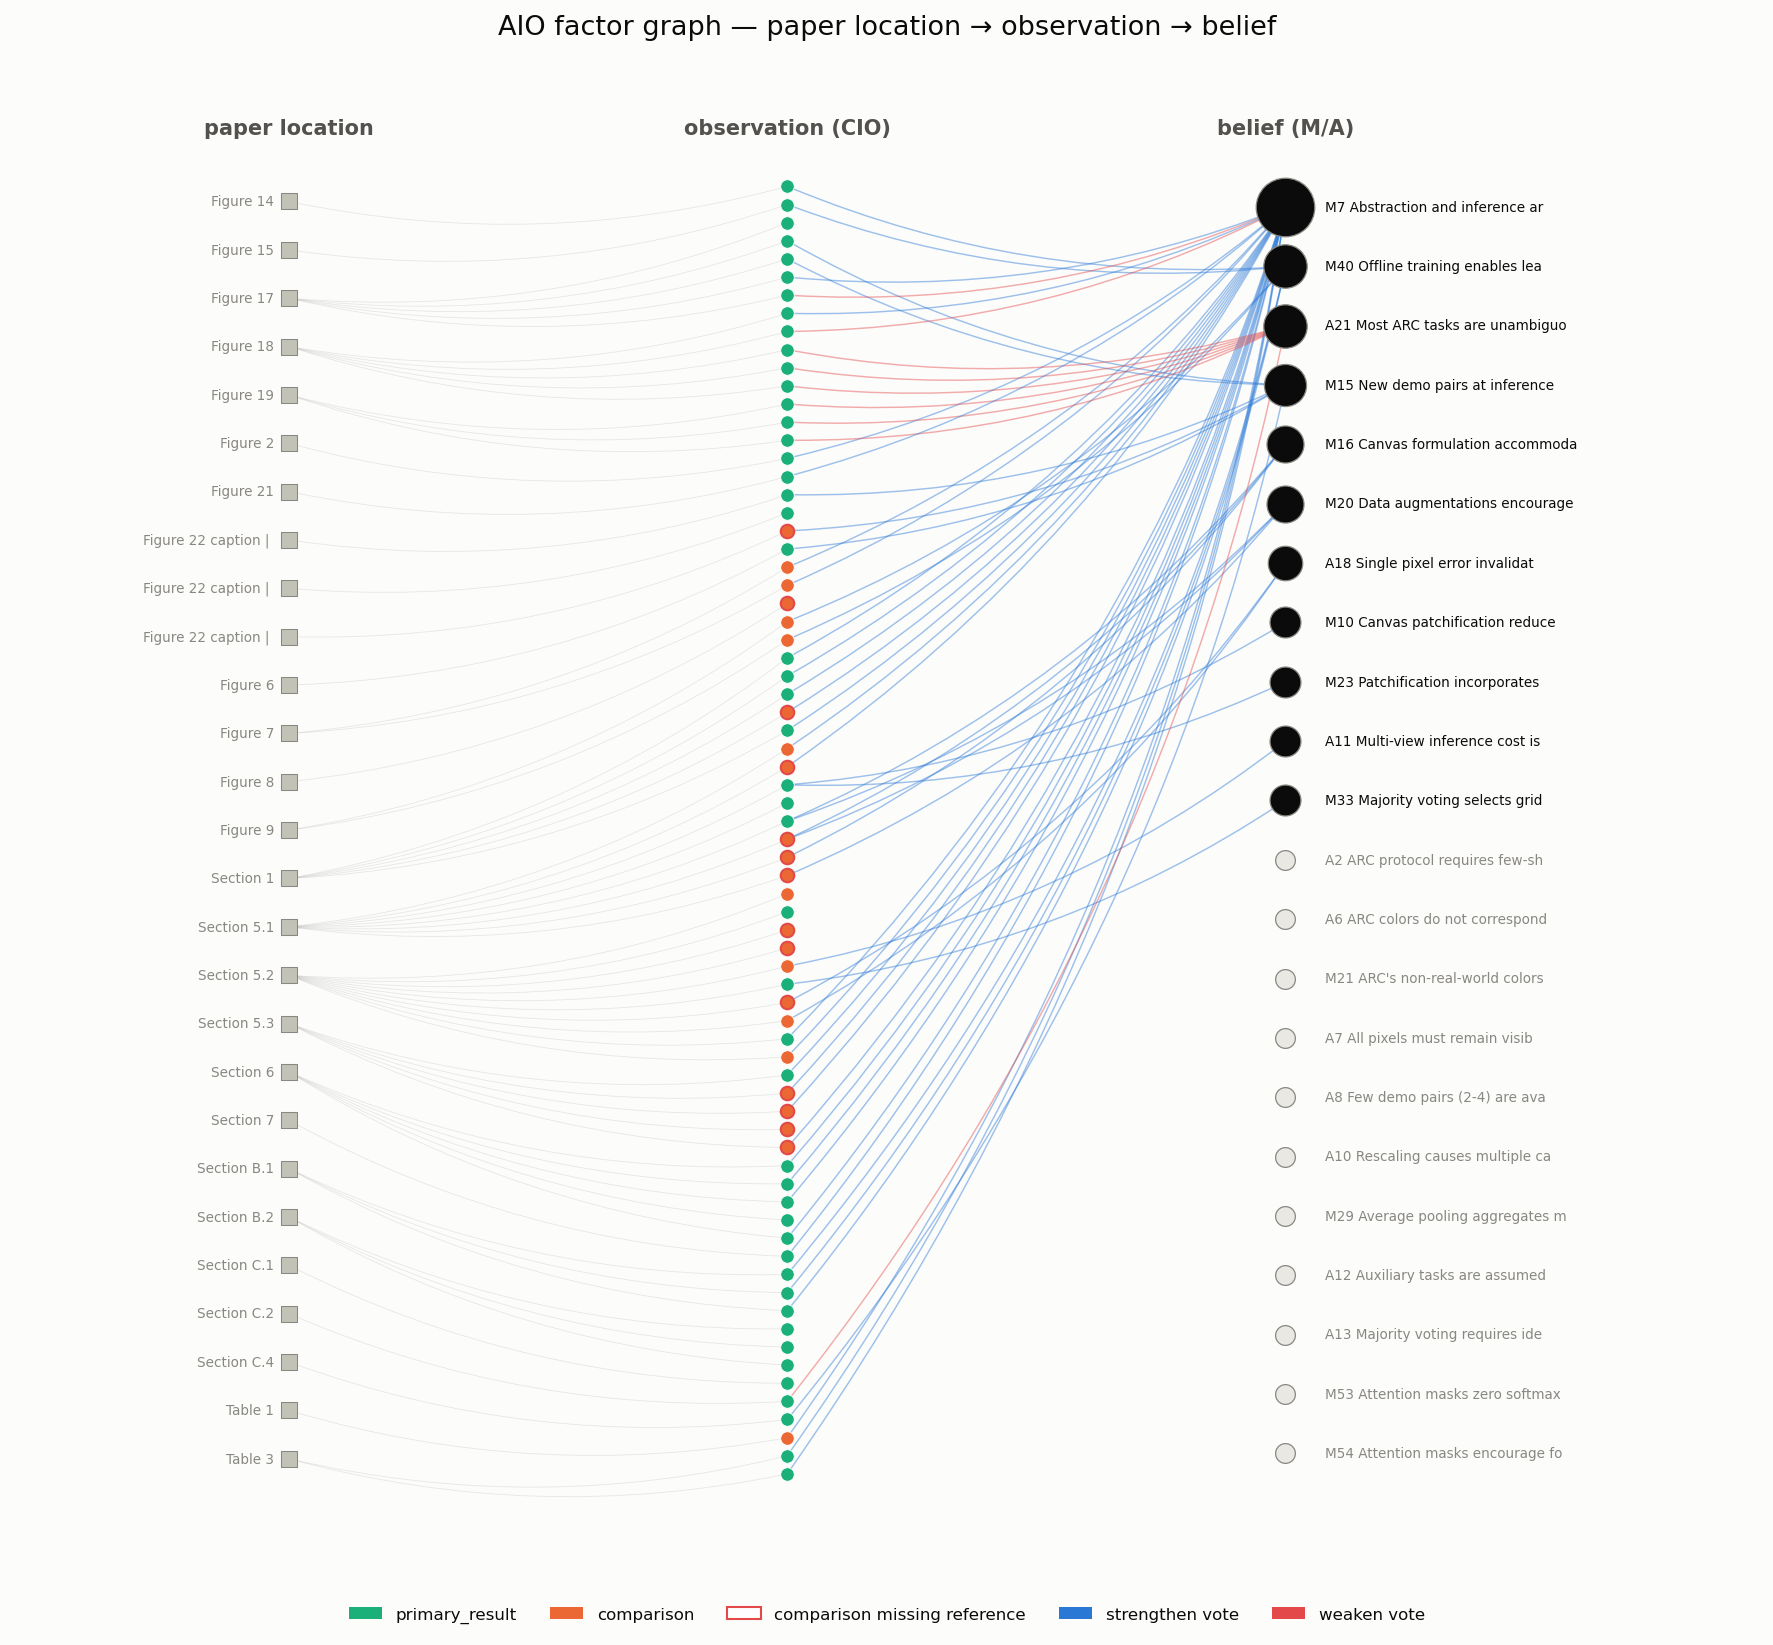
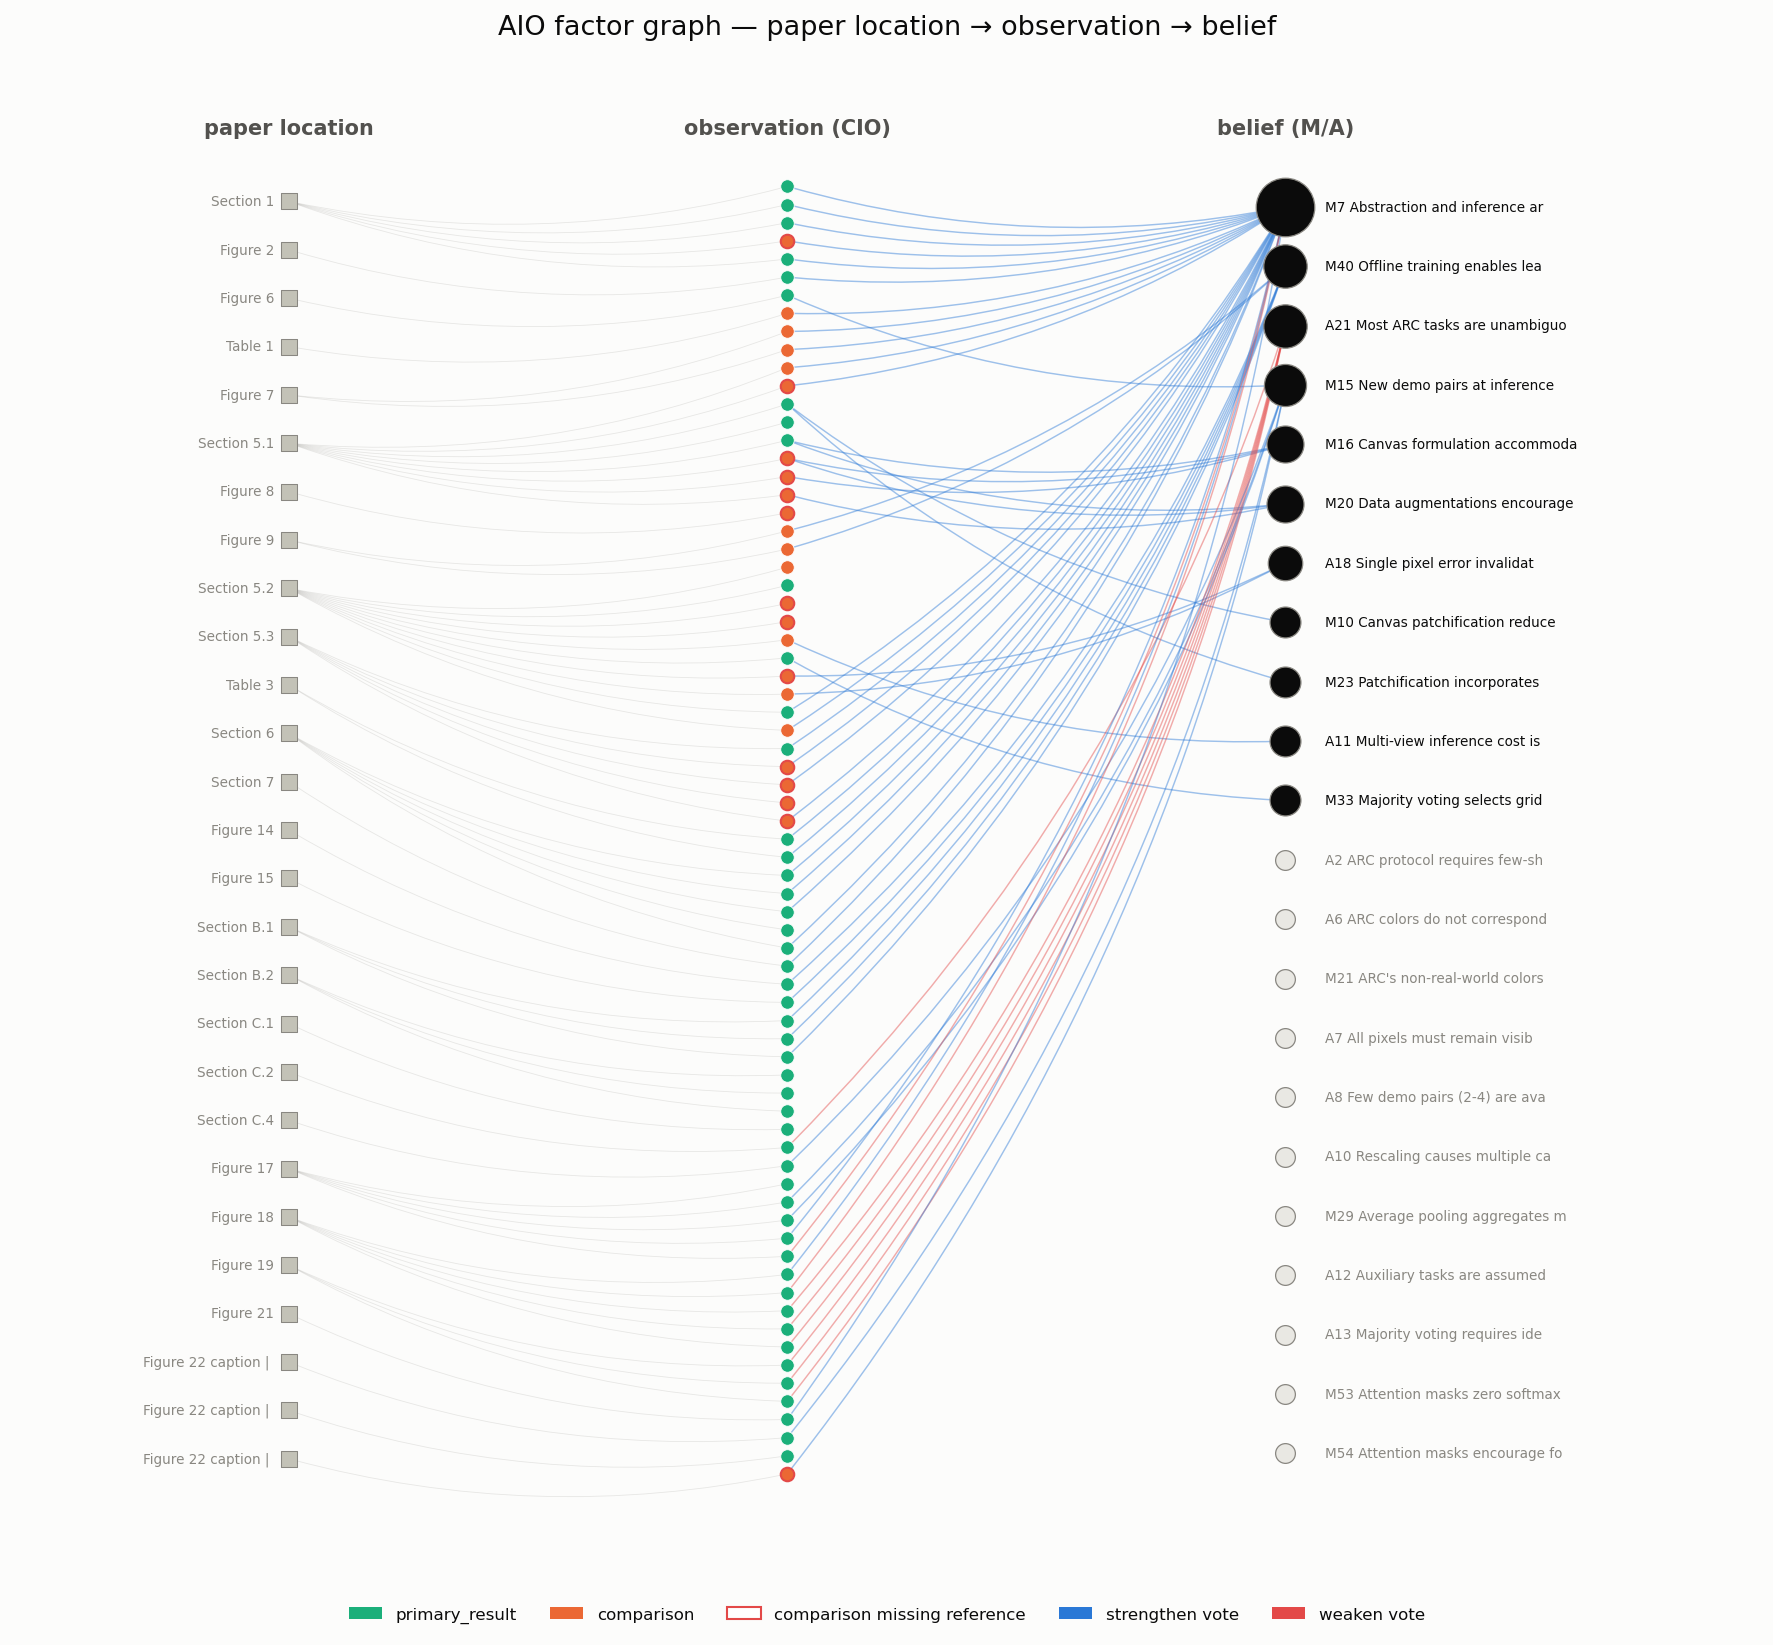
[FIX] Sort factor-graph plots by true document order instead of the location string.

diff --git a/experiments/test_gemini/plot_factors.py b/experiments/test_gemini/plot_factors.py
@@ -62,6 +62,26 @@ def filled(card, slot):
     return bool(v) if slot != "context" else bool(v)
 
 
+def location_order(run_dir: Path):
+    """location -> its position in evidence_units.json's true document reading order (that
+    file's entries are already in page order - see group_evidence_units.py). Keyed on
+    provenance.location rather than a card's own 'unit' tag: Call 1 occasionally mistags
+    'unit' on a card built around a borrowed pattern from elsewhere, but still writes that
+    pattern's real location correctly - so location is the more trustworthy anchor. Falls
+    back to an empty mapping (everything ties, order becomes whatever the input gave) if
+    evidence_units.json is missing."""
+    path = run_dir / "evidence_units.json"
+    if not path.exists():
+        return {}
+    units = json.loads(path.read_text(encoding="utf-8"))
+    return {u["location"]: i for i, u in enumerate(units)}
+
+
+def _loc_rank(card, loc_order):
+    loc = (card.get("provenance") or {}).get("location", "?")
+    return loc_order.get(loc, 10**9)
+
+
 # ---------------------------------------------------------------- belief tally
 def plot_belief_tally(am, tally, out):
     import matplotlib.pyplot as plt
@@ -96,10 +116,10 @@ def plot_belief_tally(am, tally, out):
 
 
 # ------------------------------------------------------- CIO completeness heat
-def plot_completeness(cio, out):
+def plot_completeness(cio, loc_order, out):
     import matplotlib.pyplot as plt
     from matplotlib.patches import Rectangle
-    cards = sorted(cio, key=lambda c: ((c.get("provenance") or {}).get("location", "~"), c["cio_id"]))
+    cards = sorted(cio, key=lambda c: (_loc_rank(c, loc_order), c["cio_id"]))
     n = len(cards)
     fig, ax = plt.subplots(figsize=(8.5, 0.17 * n + 2.2))
     gap = 0.12
@@ -172,11 +192,11 @@ def plot_coverage(cov, out):
 
 
 # ----------------------------------------------------------------- graph
-def plot_graph(cio, am, links, tally, out):
+def plot_graph(cio, am, links, tally, loc_order, out):
     import matplotlib.pyplot as plt
     from matplotlib.patches import FancyArrowPatch, Patch
 
-    cio_sorted = sorted(cio, key=lambda c: ((c.get("provenance") or {}).get("location", "~"), c["cio_id"]))
+    cio_sorted = sorted(cio, key=lambda c: (_loc_rank(c, loc_order), c["cio_id"]))
     am_sorted = sorted(am, key=lambda a: -(tally[a["am_id"]]["strengthen"] + tally[a["am_id"]]["weaken"]))
     locs = []
     for c in cio_sorted:
@@ -254,6 +274,7 @@ def main():
     am = json.loads((build / "am_cards.json").read_text(encoding="utf-8"))
     links = json.loads((build / "links.json").read_text(encoding="utf-8"))
     cov = json.loads((build / "coverage.json").read_text(encoding="utf-8"))
+    loc_order = location_order(run_dir)
 
     tally = collections.defaultdict(lambda: {"strengthen": 0, "weaken": 0})
     for e in links:
@@ -270,9 +291,9 @@ def main():
 
     outputs = {
         "belief_tally.png": lambda p: plot_belief_tally(am, tally, p),
-        "cio_completeness.png": lambda p: plot_completeness(cio, p),
+        "cio_completeness.png": lambda p: plot_completeness(cio, loc_order, p),
         "node_coverage.png": lambda p: plot_coverage(cov, p),
-        "factor_graph.png": lambda p: plot_graph(cio, am, links, tally, p),
+        "factor_graph.png": lambda p: plot_graph(cio, am, links, tally, loc_order, p),
     }
     for name, fn in outputs.items():
         fn(build / name)